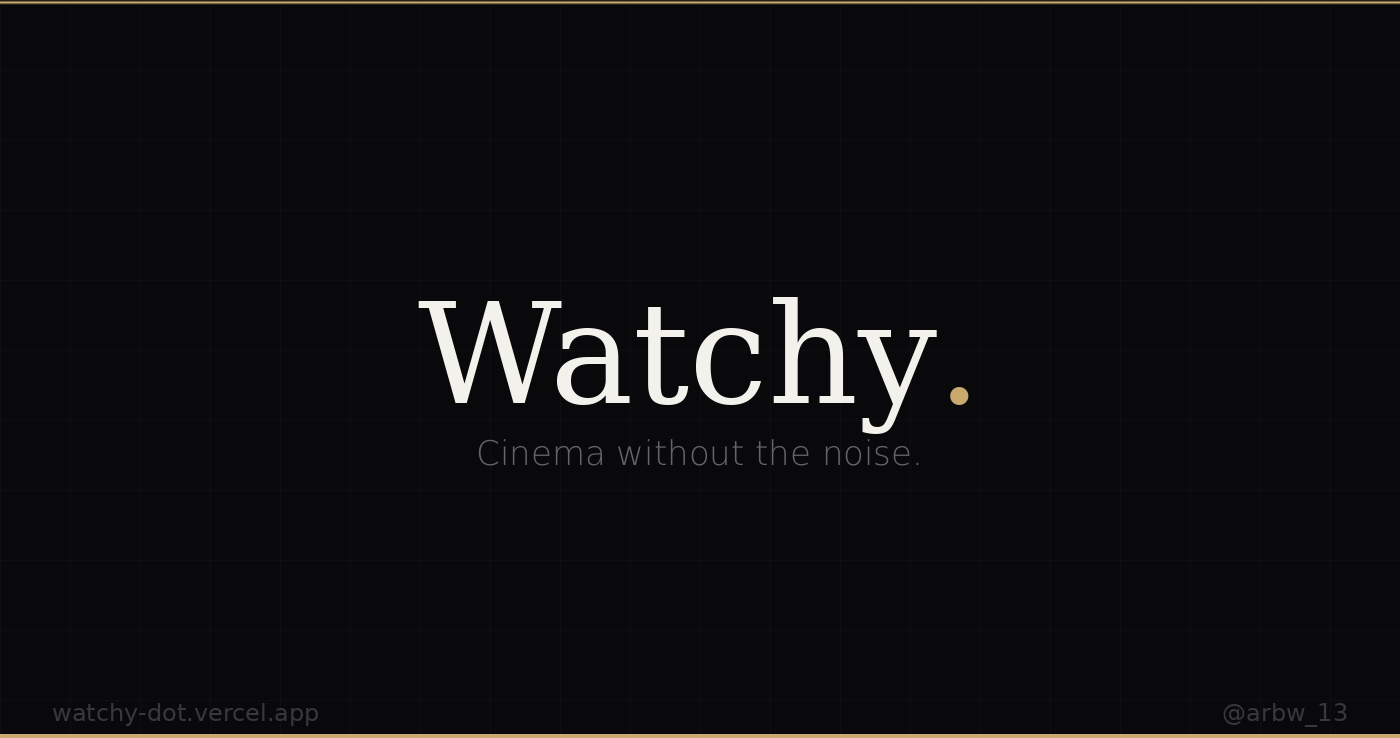
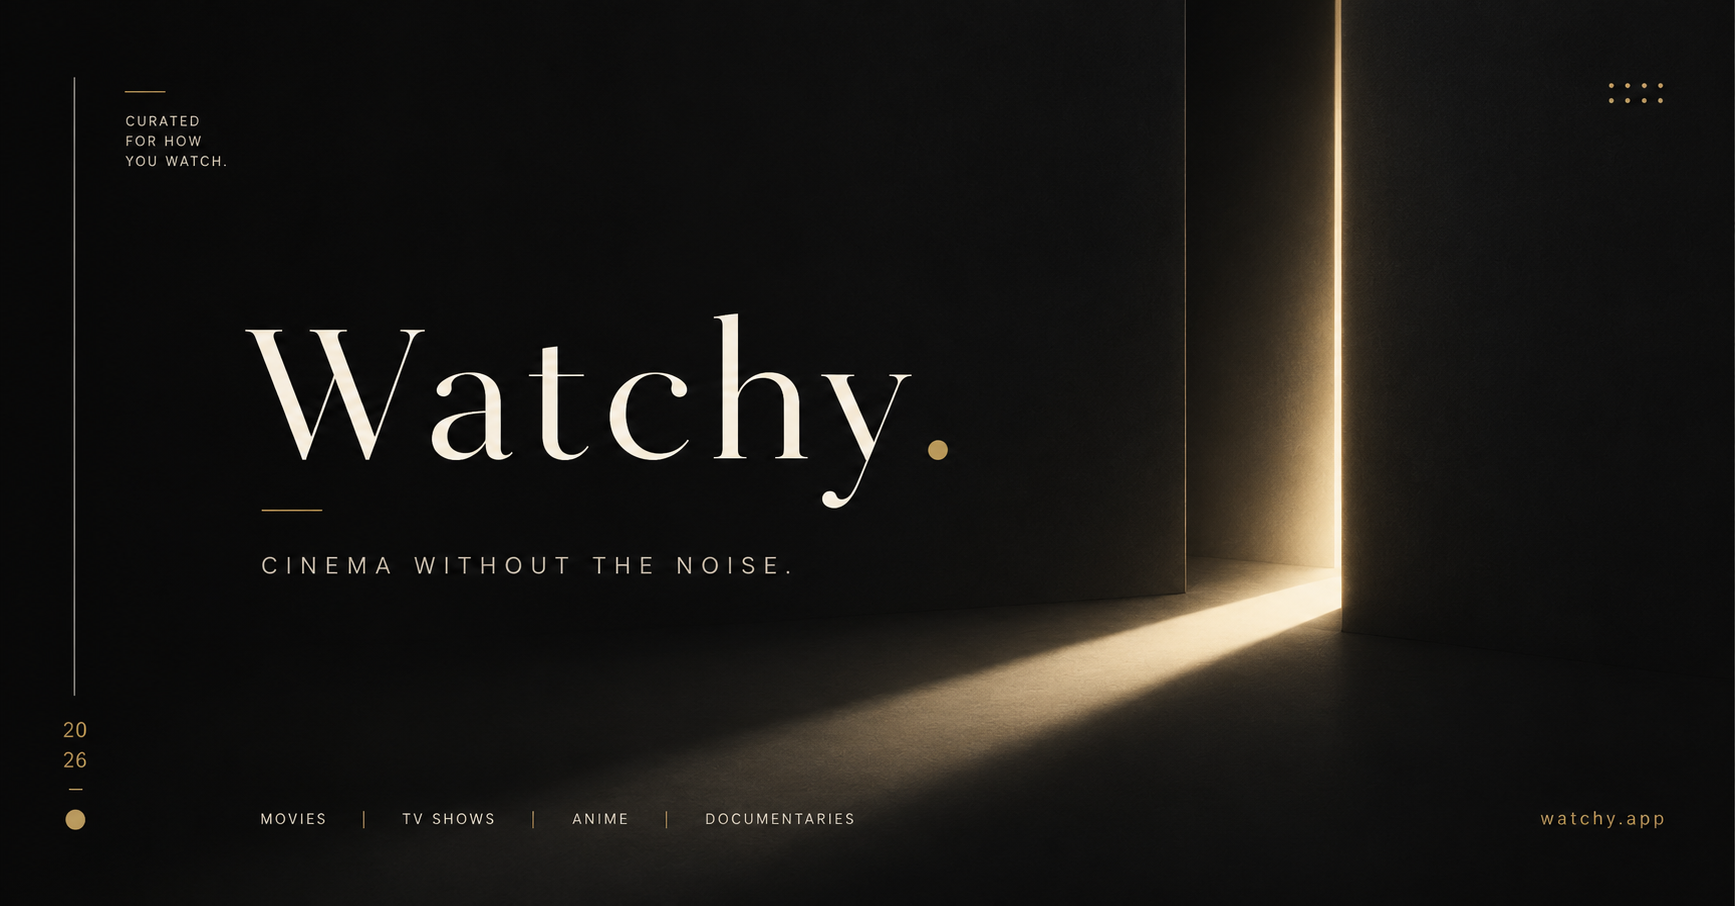
fix

diff --git a/css/style.css b/css/style.css
@@ -134,8 +134,7 @@ select{appearance:none;-webkit-appearance:none}
   height:var(--nav-h);
   display:grid;grid-template-columns:auto 1fr auto;align-items:center;
   padding:0 28px;gap:20px;
-  background:linear-gradient(to bottom,rgba(9,9,11,.55) 0%,rgba(9,9,11,.28) 70%,transparent 100%);
-  backdrop-filter:blur(8px);
+  background:linear-gradient(to bottom,rgba(9,9,11,.75) 0%,rgba(9,9,11,.4) 55%,transparent 100%);
   transition:background .3s,backdrop-filter .3s,border-color .3s;
 }
 .nav.scrolled{
@@ -319,8 +318,8 @@ select{appearance:none;-webkit-appearance:none}
 }
 .hero-trailer-wrap.active{opacity:1}
 .hero-trailer-iframe{
-  position:absolute;top:-10%;left:-10%;
-  width:120%;height:120%;border:none;pointer-events:none;
+  position:absolute;top:-18%;left:-18%;
+  width:136%;height:136%;border:none;pointer-events:none;
 }
 .hero-trailer-fade{
   position:absolute;inset:0;
@@ -714,17 +713,35 @@ select{appearance:none;-webkit-appearance:none}
    TITLE PAGE
 ════════════════════════════════ */
 #page-title{overflow-y:auto;min-height:100vh}
-.tp-backdrop-wrap{
-  position:fixed;inset:0;z-index:0;pointer-events:none;overflow:hidden;
+.tp-body{position:relative;z-index:1;padding-top:calc(var(--nav-h) + 12px)}
+.tp-back-btn{
+  display:inline-flex;align-items:center;gap:6px;
+  padding:8px 16px;margin:4px 60px 16px;
+  border-radius:var(--r);border:1px solid var(--border2);
+  background:rgba(255,255,255,.04);
+  font-size:13px;color:var(--text2);
+  transition:color .18s,border-color .18s,background .18s;
 }
+.tp-back-btn:hover{color:var(--text);border-color:rgba(255,255,255,.25);background:rgba(255,255,255,.07)}
+
+/* Contained hero card — the backdrop image lives only inside this box,
+   so it never bleeds behind Cast / Episodes / Similar sections below. */
+.tp-hero-card{
+  position:relative;overflow:hidden;
+  margin:0 60px 44px;border-radius:28px;
+  background:var(--card);
+  border:1px solid rgba(255,255,255,.07);
+  box-shadow:0 24px 64px rgba(0,0,0,.45);
+}
+.tp-hero-card-bg{position:absolute;inset:0;overflow:hidden;pointer-events:none}
 .tp-backdrop-lq{
-  position:absolute;inset:-2%;background-size:cover;background-position:center 25%;
+  position:absolute;inset:-2%;background-size:cover;background-position:center 30%;
   filter:blur(28px) saturate(1.1);transform:scale(1.08);
   opacity:0;transition:opacity .35s ease;
 }
 .tp-backdrop-lq.loaded{opacity:1}
 .tp-backdrop{
-  position:absolute;inset:0;background-size:cover;background-position:center 25%;
+  position:absolute;inset:0;background-size:cover;background-position:center 30%;
   opacity:0;transform:scale(1.06);
   transition:opacity .9s ease;
   animation:tpSlowZoom 20s ease-out forwards;
@@ -734,34 +751,24 @@ select{appearance:none;-webkit-appearance:none}
 .tp-backdrop-grad{
   position:absolute;inset:0;
   background:
-    linear-gradient(to bottom,rgba(9,9,11,.3) 0%,rgba(9,9,11,.6) 18%,rgba(9,9,11,.93) 40%,var(--bg) 62%),
-    linear-gradient(to right,rgba(9,9,11,.65) 0%,rgba(9,9,11,.2) 45%,transparent 70%);
+    linear-gradient(to bottom,rgba(9,9,11,.15) 0%,rgba(9,9,11,.35) 35%,rgba(9,9,11,.88) 78%,rgba(9,9,11,.97) 100%),
+    linear-gradient(to right,rgba(9,9,11,.7) 0%,rgba(9,9,11,.25) 45%,transparent 75%);
 }
 .tp-backdrop-vignette{
   position:absolute;inset:0;
-  background:radial-gradient(ellipse 120% 85% at 30% 12%,transparent 32%,rgba(9,9,11,.6) 100%);
+  background:radial-gradient(ellipse 120% 85% at 25% 10%,transparent 30%,rgba(9,9,11,.55) 100%);
   mix-blend-mode:multiply;
 }
-.tp-body{position:relative;z-index:1;padding-top:var(--nav-h)}
-.tp-back-btn{
-  display:inline-flex;align-items:center;gap:6px;
-  padding:8px 16px;margin:16px 60px;
-  border-radius:var(--r);border:1px solid var(--border2);
-  background:rgba(9,9,11,.55);backdrop-filter:blur(10px);
-  font-size:13px;color:var(--text2);
-  transition:color .18s,border-color .18s,background .18s;
-}
-.tp-back-btn:hover{color:var(--text);border-color:rgba(255,255,255,.25);background:rgba(9,9,11,.75)}
 
-/* Side-by-side hero row */
+/* Side-by-side hero row, sitting on top of the card's own backdrop */
 .tp-hero-row{
-  display:grid;grid-template-columns:260px 1fr;
-  gap:48px;align-items:start;
-  padding:0 60px 40px;
+  position:relative;z-index:1;
+  display:grid;grid-template-columns:220px 1fr;
+  gap:36px;align-items:end;
+  padding:44px;
 }
 .tp-poster-col{
   display:flex;flex-direction:column;gap:16px;
-  position:sticky;top:calc(var(--nav-h) + 16px);
 }
 .tp-poster-wrap{
   border-radius:var(--r-lg);overflow:hidden;
@@ -855,22 +862,23 @@ select{appearance:none;-webkit-appearance:none}
    BUTTONS
 ════════════════════════════════ */
 .btn-primary{
-  display:inline-flex;align-items:center;justify-content:center;gap:8px;
-  padding:11px 24px;border-radius:var(--r);
+  display:inline-flex;align-items:center;justify-content:center;gap:7px;
+  padding:9px 18px;border-radius:var(--r);
   background:#F2F1EC;color:#0A0A0C;
-  font-weight:600;font-size:13px;letter-spacing:.02em;
+  font-weight:600;font-size:12.5px;letter-spacing:.02em;white-space:nowrap;
   transition:opacity .18s,transform .18s,box-shadow .18s,background .18s;
   box-shadow:0 4px 20px rgba(0,0,0,.25);
 }
+.btn-primary svg{flex-shrink:0;width:14px;height:14px}
 .btn-primary:hover{background:#fff;box-shadow:0 6px 28px rgba(0,0,0,.35)}
 .btn-primary:active{transform:scale(.97)}
 .btn-primary:disabled{opacity:.45;cursor:not-allowed;box-shadow:none}
 .btn-ghost{
   display:inline-flex;align-items:center;justify-content:center;gap:7px;
-  padding:10px 20px;border-radius:var(--r);
+  padding:9px 18px;border-radius:var(--r);white-space:nowrap;
   border:1px solid rgba(255,255,255,.18);
   background:rgba(255,255,255,.06);backdrop-filter:blur(8px);
-  color:var(--text);font-size:13px;
+  color:var(--text);font-size:12.5px;
   transition:border-color .18s,background .18s;
 }
 .btn-ghost:hover{border-color:rgba(255,255,255,.3);background:rgba(255,255,255,.1)}
@@ -1352,9 +1360,10 @@ select{appearance:none;-webkit-appearance:none}
   .rail{padding:0 16px 8px}
   .below-player{padding:20px 16px 108px}
   .site-footer{padding:24px 16px 80px}
-  .tp-back-btn{margin:12px 16px}
-  .tp-hero-row{grid-template-columns:1fr;gap:20px;padding:0 16px 32px}
-  .tp-poster-col{position:static;flex-direction:row;align-items:flex-start;gap:14px}
+  .tp-back-btn{margin:8px 16px 12px}
+  .tp-hero-card{margin:0 16px 28px;border-radius:20px}
+  .tp-hero-row{grid-template-columns:1fr;gap:20px;padding:24px 20px}
+  .tp-poster-col{flex-direction:row;align-items:flex-start;gap:14px}
   .tp-poster-wrap{width:110px;flex-shrink:0}
   .tp-trailer-embed-wrap{flex:1}
   .tp-info-col .tp-title{font-size:22px}

diff --git a/index.html b/index.html
@@ -13,8 +13,8 @@
   <meta name="twitter:card"             content="summary_large_image">
   <meta property="og:image"             content="https://watchy-dev.vercel.app/og-image.png">
   <meta property="og:image:secure_url"  content="https://watchy-dev.vercel.app/og-image.png">
-  <meta property="og:image:width"       content="1400">
-  <meta property="og:image:height"      content="738">
+  <meta property="og:image:width"       content="1200">
+  <meta property="og:image:height"      content="630">
   <meta property="og:image:type"        content="image/png">
   <meta property="og:image:alt"         content="Watchy. — Cinema without the noise.">
   <meta name="twitter:image"            content="https://watchy-dev.vercel.app/og-image.png">
@@ -186,9 +186,52 @@
     </div>
     <div id="rail-tv" class="rail"></div>
   </section>
-  <section class="section" style="padding-bottom:72px">
+  <section class="section">
     <div class="section-head"><h2 class="section-title">Top Rated</h2></div>
     <div id="rail-toprated" class="rail"></div>
+  </section>
+  <section class="section">
+    <div class="section-head">
+      <h2 class="section-title">New Releases</h2>
+      <button class="section-all" data-goto="movies">See all →</button>
+    </div>
+    <div id="rail-new" class="rail"></div>
+  </section>
+  <section class="section">
+    <div class="section-head"><h2 class="section-title">Top Rated Series</h2></div>
+    <div id="rail-toptv" class="rail"></div>
+  </section>
+  <section class="section">
+    <div class="section-head"><h2 class="section-title">Action &amp; Adventure</h2></div>
+    <div id="rail-action" class="rail"></div>
+  </section>
+  <section class="section">
+    <div class="section-head"><h2 class="section-title">Comedies</h2></div>
+    <div id="rail-comedy" class="rail"></div>
+  </section>
+  <section class="section">
+    <div class="section-head"><h2 class="section-title">Horror</h2></div>
+    <div id="rail-horror" class="rail"></div>
+  </section>
+  <section class="section">
+    <div class="section-head"><h2 class="section-title">Sci-Fi &amp; Fantasy</h2></div>
+    <div id="rail-scifi" class="rail"></div>
+  </section>
+  <section class="section">
+    <div class="section-head"><h2 class="section-title">Crime &amp; Thrillers</h2></div>
+    <div id="rail-crime" class="rail"></div>
+  </section>
+  <section class="section">
+    <div class="section-head"><h2 class="section-title">Animation</h2></div>
+    <div id="rail-animation" class="rail"></div>
+  </section>
+  <section class="section">
+    <div class="section-head"><h2 class="section-title">Anime</h2></div>
+    <div id="rail-anime" class="rail"></div>
+  </section>
+  <section class="section" style="padding-bottom:72px">
+    <div class="section-head"><h2 class="section-title">Documentaries</h2></div>
+    <div id="rail-doc" class="rail"></div>
   </section>
   <footer class="site-footer">
     <span class="footer-brand">Watchy<span class="dot">.</span></span>
@@ -301,19 +344,21 @@
 
 <!-- TITLE PAGE -->
 <div id="page-title" class="page">
-  <div class="tp-backdrop-wrap">
-    <div class="tp-backdrop-lq" id="tp-backdrop-lq"></div>
-    <div class="tp-backdrop" id="tp-backdrop"></div>
-    <div class="tp-backdrop-grad"></div>
-    <div class="tp-backdrop-vignette"></div>
-  </div>
   <div class="tp-body">
     <button class="tp-back-btn" id="tp-back-btn">
       <svg viewBox="0 0 24 24" fill="none" stroke="currentColor" stroke-width="2" width="14" height="14"><path d="m15 18-6-6 6-6"/></svg>
       Back
     </button>
 
-    <div class="tp-hero-row">
+    <div class="tp-hero-card">
+      <div class="tp-hero-card-bg">
+        <div class="tp-backdrop-lq" id="tp-backdrop-lq"></div>
+        <div class="tp-backdrop" id="tp-backdrop"></div>
+        <div class="tp-backdrop-grad"></div>
+        <div class="tp-backdrop-vignette"></div>
+      </div>
+
+      <div class="tp-hero-row">
       <!-- Poster + trailer column -->
       <div class="tp-poster-col">
         <div class="tp-poster-wrap">
@@ -369,7 +414,8 @@
           </button>
         </div>
       </div>
-    </div><!-- /tp-hero-row -->
+      </div><!-- /tp-hero-row -->
+    </div><!-- /tp-hero-card -->
 
     <!-- Cast -->
     <section class="tp-section">

diff --git a/js/app.js b/js/app.js
@@ -92,6 +92,8 @@ const A={
   season:(id,s)=>api(`/tv/${id}/season/${s}`),
   search:q=>api('/search/multi',{query:q}).then(d=>(d?.results||[]).filter(r=>r.media_type!=='person')),
   byGenre:g=>api('/discover/movie',{with_genres:g,sort_by:'popularity.desc'}).then(d=>d?.results||[]),
+  byGenreType:(g,type)=>api(`/discover/${type}`,{with_genres:g,sort_by:'popularity.desc','vote_count.gte':50}).then(d=>d?.results||[]),
+  animeTV:()=>api('/discover/tv',{with_genres:'16',with_original_language:'ja',sort_by:'popularity.desc'}).then(d=>d?.results||[]),
   similar:(id,t)=>api(`/${t}/${id}/similar`).then(d=>d?.results||[]),
   recommended:(id,t)=>api(`/${t}/${id}/recommendations`).then(d=>d?.results||[]),
   collection:id=>api(`/collection/${id}`).then(d=>d?.parts||[]),
@@ -535,7 +537,8 @@ function loadHeroTrailer(key){
   const iframe=document.getElementById('hero-trailer-iframe');
   const muteBtn=document.getElementById('hero-mute-btn');
   if(!wrap||!iframe)return;
-  iframe.src=`https://www.youtube.com/embed/${key}?autoplay=1&mute=1&loop=1&playlist=${key}&controls=0&showinfo=0&rel=0&modestbranding=1&iv_load_policy=3`;
+  iframe.src=`https://www.youtube.com/embed/${key}?autoplay=1&mute=1&loop=1&playlist=${key}&controls=0&showinfo=0&rel=0&modestbranding=1&iv_load_policy=3&disablekb=1&fs=0`;
+  iframe.setAttribute('tabindex','-1');
   S.heroTrailerMuted=true;
   setTimeout(()=>{
     if(S.heroTrailerKey===key&&S.page==='home'){
@@ -560,7 +563,7 @@ function toggleHeroMute(){
   if(!iframe||!S.heroTrailerKey)return;
   S.heroTrailerMuted=!S.heroTrailerMuted;
   const key=S.heroTrailerKey,muted=S.heroTrailerMuted?1:0;
-  iframe.src=`https://www.youtube.com/embed/${key}?autoplay=1&mute=${muted}&loop=1&playlist=${key}&controls=0&showinfo=0&rel=0&modestbranding=1&iv_load_policy=3`;
+  iframe.src=`https://www.youtube.com/embed/${key}?autoplay=1&mute=${muted}&loop=1&playlist=${key}&controls=0&showinfo=0&rel=0&modestbranding=1&iv_load_policy=3&disablekb=1&fs=0`;
   if(muteBtn){
     muteBtn.querySelector('.mute-off').style.display=S.heroTrailerMuted?'block':'none';
     muteBtn.querySelector('.mute-on').style.display=S.heroTrailerMuted?'none':'block';
@@ -649,6 +652,16 @@ async function loadHome(){
   fillRail(document.getElementById('rail-movies'),A.movies);
   fillRail(document.getElementById('rail-tv'),A.tv);
   fillRail(document.getElementById('rail-toprated'),A.topRated);
+  fillRail(document.getElementById('rail-new'),A.nowPlaying);
+  fillRail(document.getElementById('rail-toptv'),A.topTV);
+  fillRail(document.getElementById('rail-action'),()=>A.byGenreType('28|12','movie'));
+  fillRail(document.getElementById('rail-comedy'),()=>A.byGenreType('35','movie'));
+  fillRail(document.getElementById('rail-horror'),()=>A.byGenreType('27','movie'));
+  fillRail(document.getElementById('rail-scifi'),()=>A.byGenreType('878|14','movie'));
+  fillRail(document.getElementById('rail-crime'),()=>A.byGenreType('80|53','movie'));
+  fillRail(document.getElementById('rail-animation'),()=>A.byGenreType('16','movie'));
+  fillRail(document.getElementById('rail-anime'),A.animeTV);
+  fillRail(document.getElementById('rail-doc'),()=>A.byGenreType('99','movie'));
 }
 function refreshContRow(){
   const sec=document.getElementById('continue-sec'),rail=document.getElementById('rail-continue');